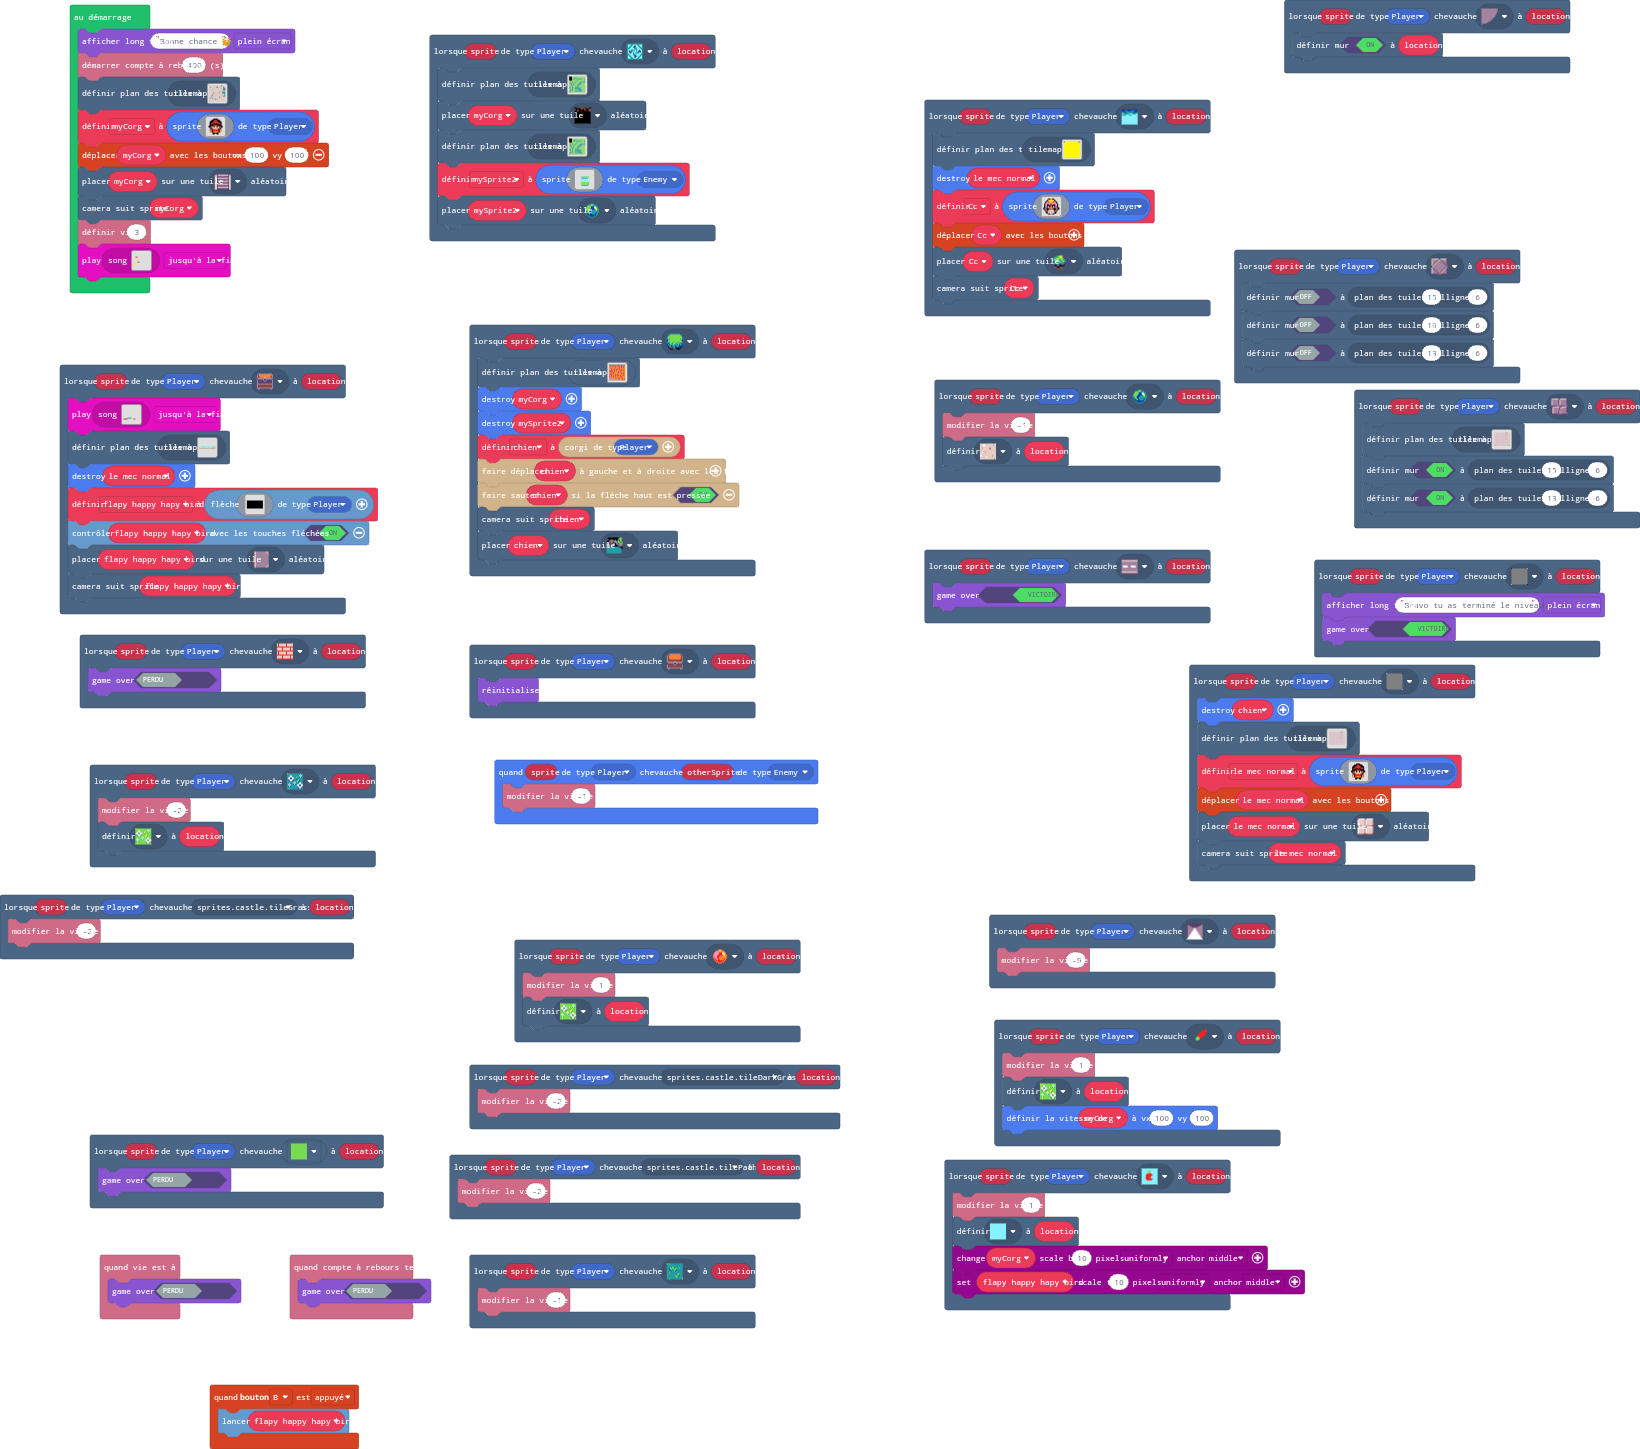
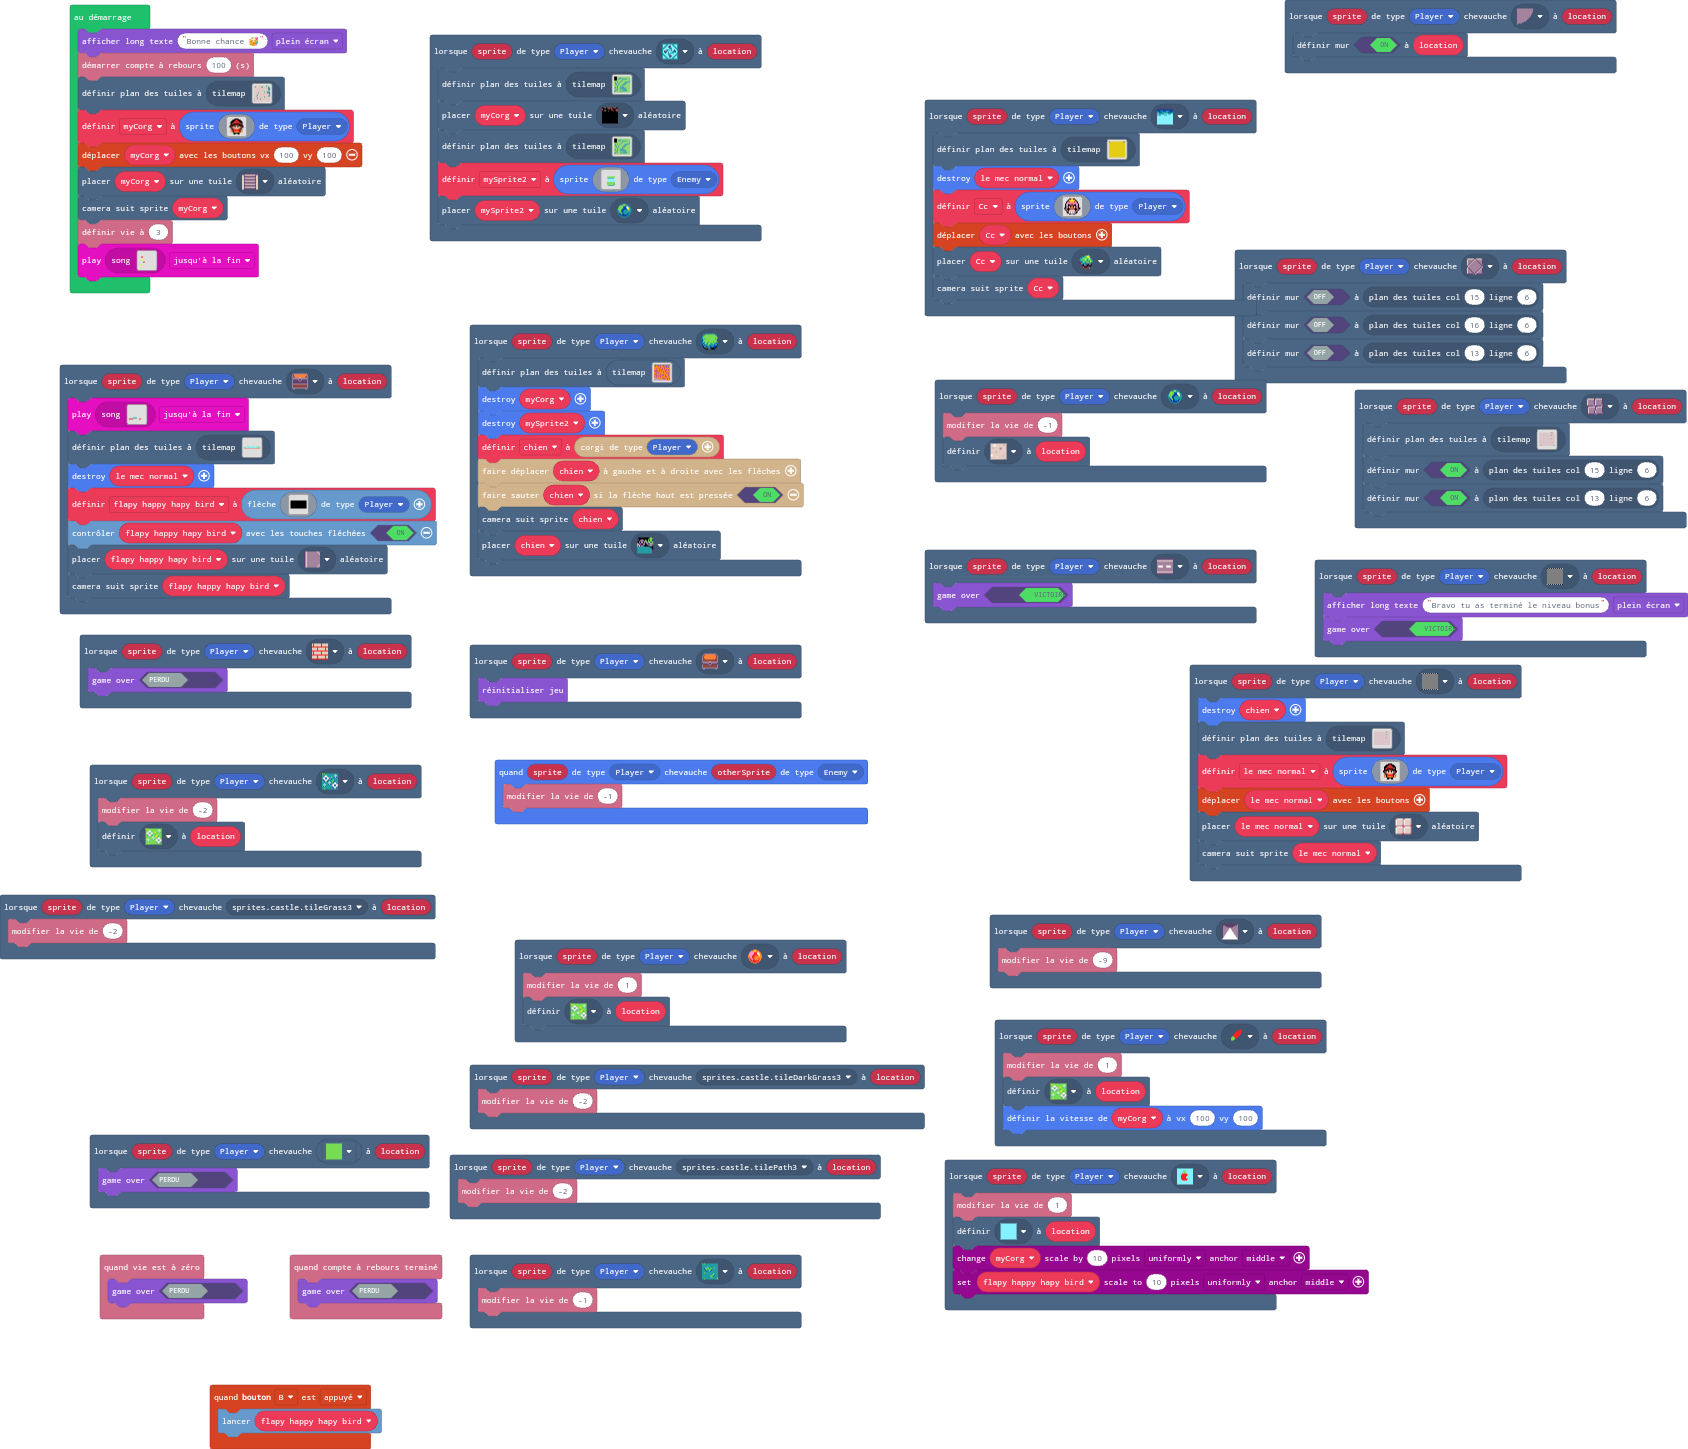
Mise à jour main.blocks, main.ts, tilemap.g.jres, tilemap.g.ts

diff --git a/tilemap.g.ts b/tilemap.g.ts
@@ -26,6 +26,10 @@ namespace myTiles {
     export const tile11 = image.ofBuffer(hex``);
     //% fixedInstance jres blockIdentity=images._tile
     export const tile12 = image.ofBuffer(hex``);
+    //% fixedInstance jres blockIdentity=images._tile
+    export const tile13 = image.ofBuffer(hex``);
+    //% fixedInstance jres blockIdentity=images._tile
+    export const tile14 = image.ofBuffer(hex``);
 
     helpers._registerFactory("tilemap", function(name: string) {
         switch(helpers.stringTrim(name)) {
@@ -284,44 +288,6 @@ namespace myTiles {
 . . . . . . . . . . . . . . . . 
 . . . . . . . . . . . . . . . . 
 `, [myTiles.transparency16], TileScale.Sixteen);
-            case "nivea5456":
[1 lines of base64/hex data omitted]
-. . . . . 2 . . . . . 2 . . . . 
-. . . . . 2 . . . . . 2 . . . . 
-. . . . . 2 . . . 2 . 2 . 2 . . 
-. . 2 . 2 2 . . . 2 . . . 2 . . 
-. . 2 . . . . . . 2 . . 2 2 . . 
-. . 2 2 2 2 2 2 2 2 . . 2 2 2 2 
-. . 2 . . . 2 . . . . . 2 . . . 
-. . 2 . . . 2 . . . . . 2 . . . 
-. . 2 . . . 2 . 2 2 . 2 2 . . . 
-. . . . . . 2 . 2 . . . 2 . . . 
-. . . . . . 2 . 2 . . . 2 . . . 
-. . 2 2 2 2 2 2 2 . . . 2 . . . 
-. . 2 . . . . . 2 . . . 2 . . . 
-. . 2 . . . . . 2 . . . 2 2 2 . 
-. . 2 . 2 2 2 . 2 . . . . . . . 
-. . 2 . 2 . . . . . . . . . . . 
-`, [myTiles.transparency16,sprites.castle.tilePath5,sprites.dungeon.stairSouth,sprites.dungeon.floorLight0,sprites.dungeon.chestClosed,sprites.dungeon.collectibleInsignia,sprites.dungeon.collectibleBlueCrystal,myTiles.tile1,sprites.builtin.forestTiles0,sprites.swamp.swampTile19,myTiles.tile2,sprites.dungeon.hazardWater], TileScale.Sixteen);
-            case "niveau16":
-            case "niveau16":return tiles.createTilemap(hex`1000100001020202020202020202020202040303020202020202020202020202020402020204040202020202020202020204020202040202020202020202020202040402020402020202020202020202020204020204020202020202020202020202040202040202020202020202020202020402020404040402020202020202020204040204020204020202020202020202020402020202040202020202020202020204020202020402020202020202020202040202020402020202020202020202020402020204020202020202020202020204020202040202020202020202020202040202020402020202020202020202020402020204040404040404040404040404`, img`
-. . . 2 . . . . . . . . 2 . . . 
-. . . 2 2 2 2 2 . . . . 2 . 2 2 
-2 . . . . . . 2 2 . . . 2 . . . 
-2 . 2 . . . . . 2 . . . 2 2 . . 
-2 . 2 . . . . . 2 2 2 . . . . . 
-2 . 2 2 2 2 . . . . 2 2 . . . . 
-2 . . . . 2 2 2 . . . 2 2 . . . 
-2 . . . . . . 2 . . . . 2 2 2 . 
-2 . 2 . . . . . 2 . . . 2 2 . . 
-. . 2 . . 2 . . 2 . . 2 2 . . . 
-. . 2 . . 2 . 2 2 . . . . . 2 . 
-. . 2 . 2 2 . . 2 2 2 . . 2 . . 
-2 2 . . 2 2 . . . . 2 2 . . . . 
-2 . . . 2 2 2 2 . . . 2 2 2 . . 
-2 . . . . . . 2 2 2 . . . 2 2 . 
-. . . . . . . . . . . . . . . . 
-`, [myTiles.transparency16,sprites.castle.saplingOak,myTiles.tile10,myTiles.tile11,myTiles.tile12], TileScale.Sixteen);
             case "niveau17":
             case "niveau17":return tiles.createTilemap(hex`1000100000000000000000000000000000000000000000000000000000000000000000000000000000000000000000000000000000000000000000000000000000000000000000000000000000000000000000000000000000000000000000000000000000000000000000000000000000000000000000000000000000000000000000000000000000000000000000000000000000000000000000000000000000000000000000000000000000000000000000000000000000000000000000000000000000000000000000000000000000000000000000000000000000000000000000000000000000000000000000000000000000000000000000000000000000000000`, img`
 . . . . . . . . . . . . . . . . 
@@ -436,6 +402,158 @@ namespace myTiles {
 . . . . . . . . . . . . . . . . 
 . . . . . . . . . . . . . . . . 
 `, [myTiles.transparency16], TileScale.Sixteen);
+            case "niveau23":
+            case "niveau23":return tiles.createTilemap(hex`1000100000000000000000000000000000000000000000000000000000000000000000000000000000000000000000000000000000000000000000000000000000000000000000000000000000000000000000000000000000000000000000000000000000000000000000000000000000000000000000000000000000000000000000000000000000000000000000000000000000000000000000000000000000000000000000000000000000000000000000000000000000000000000000000000000000000000000000000000000000000000000000000000000000000000000000000000000000000000000000000000000000000000000000000000000000000000`, img`
+. . . . . . . . . . . . . . . . 
+. . . . . . . . . . . . . . . . 
+. . . . . . . . . . . . . . . . 
+. . . . . . . . . . . . . . . . 
+. . . . . . . . . . . . . . . . 
+. . . . . . . . . . . . . . . . 
+. . . . . . . . . . . . . . . . 
+. . . . . . . . . . . . . . . . 
+. . . . . . . . . . . . . . . . 
+. . . . . . . . . . . . . . . . 
+. . . . . . . . . . . . . . . . 
+. . . . . . . . . . . . . . . . 
+. . . . . . . . . . . . . . . . 
+. . . . . . . . . . . . . . . . 
+. . . . . . . . . . . . . . . . 
+. . . . . . . . . . . . . . . . 
+`, [myTiles.transparency16], TileScale.Sixteen);
+            case "niveau24":
+            case "niveau24":return tiles.createTilemap(hex`1000100000000000000000000000000000000000000000000000000000000000000000000000000000000000000000000000000000000000000000000000000000000000000000000000000000000000000000000000000000000000000000000000000000000000000000000000000000000000000000000000000000000000000000000000000000000000000000000000000000000000000000000000000000000000000000000000000000000000000000000000000000000000000000000000000000000000000000000000000000000000000000000000000000000000000000000000000000000000000000000000000000000000000000000000000000000000`, img`
+. . . . . . . . . . . . . . . . 
+. . . . . . . . . . . . . . . . 
+. . . . . . . . . . . . . . . . 
+. . . . . . . . . . . . . . . . 
+. . . . . . . . . . . . . . . . 
+. . . . . . . . . . . . . . . . 
+. . . . . . . . . . . . . . . . 
+. . . . . . . . . . . . . . . . 
+. . . . . . . . . . . . . . . . 
+. . . . . . . . . . . . . . . . 
+. . . . . . . . . . . . . . . . 
+. . . . . . . . . . . . . . . . 
+. . . . . . . . . . . . . . . . 
+. . . . . . . . . . . . . . . . 
+. . . . . . . . . . . . . . . . 
+. . . . . . . . . . . . . . . . 
+`, [myTiles.transparency16], TileScale.Sixteen);
+            case "niveau25":
+            case "niveau25":return tiles.createTilemap(hex`1000100000000000000000000000000000000000000000000000000000000000000000000000000000000000000000000000000000000000000000000000000000000000000000000000000000000000000000000000000000000000000000000000000000000000000000000000000000000000000000000000000000000000000000000000000000000000000000000000000000000000000000000000000000000000000000000000000000000000000000000000000000000000000000000000000000000000000000000000000000000000000000000000000000000000000000000000000000000000000000000000000000000000000000000000000000000000`, img`
+. . . . . . . . . . . . . . . . 
+. . . . . . . . . . . . . . . . 
+. . . . . . . . . . . . . . . . 
+. . . . . . . . . . . . . . . . 
+. . . . . . . . . . . . . . . . 
+. . . . . . . . . . . . . . . . 
+. . . . . . . . . . . . . . . . 
+. . . . . . . . . . . . . . . . 
+. . . . . . . . . . . . . . . . 
+. . . . . . . . . . . . . . . . 
+. . . . . . . . . . . . . . . . 
+. . . . . . . . . . . . . . . . 
+. . . . . . . . . . . . . . . . 
+. . . . . . . . . . . . . . . . 
+. . . . . . . . . . . . . . . . 
+. . . . . . . . . . . . . . . . 
+`, [myTiles.transparency16], TileScale.Sixteen);
+            case "niveau26":
+            case "niveau26":return tiles.createTilemap(hex`1000100000000000000000000000000000000000000000000000000000000000000000000000000000000000000000000000000000000000000000000000000000000000000000000000000000000000000000000000000000000000000000000000000000000000000000000000000000000000000000000000000000000000000000000000000000000000000000000000000000000000000000000000000000000000000000000000000000000000000000000000000000000000000000000000000000000000000000000000000000000000000000000000000000000000000000000000000000000000000000000000000000000000000000000000000000000000`, img`
+. . . . . . . . . . . . . . . . 
+. . . . . . . . . . . . . . . . 
+. . . . . . . . . . . . . . . . 
+. . . . . . . . . . . . . . . . 
+. . . . . . . . . . . . . . . . 
+. . . . . . . . . . . . . . . . 
+. . . . . . . . . . . . . . . . 
+. . . . . . . . . . . . . . . . 
+. . . . . . . . . . . . . . . . 
+. . . . . . . . . . . . . . . . 
+. . . . . . . . . . . . . . . . 
+. . . . . . . . . . . . . . . . 
+. . . . . . . . . . . . . . . . 
+. . . . . . . . . . . . . . . . 
+. . . . . . . . . . . . . . . . 
+. . . . . . . . . . . . . . . . 
+`, [myTiles.transparency16], TileScale.Sixteen);
+            case "niveau27":
+            case "niveau27":return tiles.createTilemap(hex`1000100000000000000000000000000000000000000000000000000000000000000000000000000000000000000000000000000000000000000000000000000000000000000000000000000000000000000000000000000000000000000000000000000000000000000000000000000000000000000000000000000000000000000000000000000000000000000000000000000000000000000000000000000000000000000000000000000000000000000000000000000000000000000000000000000000000000000000000000000000000000000000000000000000000000000000000000000000000000000000000000000000000000000000000000000000000000`, img`
+. . . . . . . . . . . . . . . . 
+. . . . . . . . . . . . . . . . 
+. . . . . . . . . . . . . . . . 
+. . . . . . . . . . . . . . . . 
+. . . . . . . . . . . . . . . . 
+. . . . . . . . . . . . . . . . 
+. . . . . . . . . . . . . . . . 
+. . . . . . . . . . . . . . . . 
+. . . . . . . . . . . . . . . . 
+. . . . . . . . . . . . . . . . 
+. . . . . . . . . . . . . . . . 
+. . . . . . . . . . . . . . . . 
+. . . . . . . . . . . . . . . . 
+. . . . . . . . . . . . . . . . 
+. . . . . . . . . . . . . . . . 
+. . . . . . . . . . . . . . . . 
+`, [myTiles.transparency16], TileScale.Sixteen);
+            case "niveau28":
+            case "niveau28":return tiles.createTilemap(hex`1000100000000000000000000000000000000000000000000000000000000000000000000000000000000000000000000000000000000000000000000000000000000000000000000000000000000000000000000000000000000000000000000000000000000000000000000000000000000000000000000000000000000000000000000000000000000000000000000000000000000000000000000000000000000000000000000000000000000000000000000000000000000000000000000000000000000000000000000000000000000000000000000000000000000000000000000000000000000000000000000000000000000000000000000000000000000000`, img`
+. . . . . . . . . . . . . . . . 
+. . . . . . . . . . . . . . . . 
+. . . . . . . . . . . . . . . . 
+. . . . . . . . . . . . . . . . 
+. . . . . . . . . . . . . . . . 
+. . . . . . . . . . . . . . . . 
+. . . . . . . . . . . . . . . . 
+. . . . . . . . . . . . . . . . 
+. . . . . . . . . . . . . . . . 
+. . . . . . . . . . . . . . . . 
+. . . . . . . . . . . . . . . . 
+. . . . . . . . . . . . . . . . 
+. . . . . . . . . . . . . . . . 
+. . . . . . . . . . . . . . . . 
+. . . . . . . . . . . . . . . . 
+. . . . . . . . . . . . . . . . 
+`, [myTiles.transparency16], TileScale.Sixteen);
+            case "niveau16":
+            case "niveau16":return tiles.createTilemap(hex`1000100001040303030303030303030304040202030403030303030303030303040403030304030303030303030303030404040303040303030303030303030304040404030403030303030303030303030304040304030303030303030303030303040403040303030303030303030303030404030404030303030303030303030304040303040404030303030303030303040403030304030303030303030303030404030303040303030303030303030304040303030403030303030303030303040403030304030303030303030303030404030303040303030303030303030304040303030403030303030303030303040403030304040404040404040404040404`, img`
+. . . 2 . . . . . . . . 2 . . . 
+. . . 2 2 2 2 2 . . . . 2 . 2 2 
+2 . . . . . . 2 2 . . . 2 . . . 
+2 . 2 . . . . . 2 . . . 2 2 . . 
+2 . 2 . . . . . 2 2 2 . . . . . 
+2 . 2 2 2 2 . . . . 2 2 . . . . 
+2 . . . . 2 2 2 . . . 2 2 . . . 
+2 . . . . . . 2 . . . . 2 2 2 . 
+2 . 2 . . . . . 2 . . . 2 2 . . 
+. . 2 . . 2 . . 2 . . 2 2 . . . 
+. . 2 . . 2 . 2 2 . . . . . 2 . 
+. . 2 . 2 2 . . 2 2 2 . . 2 . . 
+2 2 . . 2 2 . . . . 2 2 . . . . 
+2 . . . 2 2 2 2 . . . 2 2 2 . . 
+2 . . . . . . 2 2 2 . . . 2 2 . 
+. . . . . . . . . . . . . . . . 
+`, [myTiles.transparency16,sprites.castle.saplingOak,myTiles.tile11,myTiles.tile13,myTiles.tile14], TileScale.Sixteen);
+            case "nivea5456":
[1 lines of base64/hex data omitted]
+. . . . . 2 . . . . . 2 . . . . 
+. . . . . 2 . . . . . 2 . . . . 
+. . . . . 2 . . . 2 . 2 . 2 . . 
+. . 2 . 2 2 . . . 2 . . . 2 . . 
+. . 2 . . . . . . 2 . . 2 2 . . 
+. . 2 2 2 2 2 2 2 2 . . 2 2 2 2 
+. . 2 . . . 2 . . . . . 2 . . . 
+. . 2 . . . 2 . . . . . 2 . . . 
+. . 2 . . . 2 . 2 2 . 2 2 . . . 
+. . . . . . 2 . 2 . . . 2 . . . 
+. . . . . . 2 . 2 . . . 2 . . . 
+. . 2 2 2 2 2 2 2 . . . 2 . . . 
+. . 2 . . . . . 2 . . . 2 . . . 
+. . 2 . . . . . 2 . . . 2 2 2 . 
+. . 2 . 2 2 2 . 2 . . . . . . . 
+. . 2 . 2 . . . . . . . . . . . 
+`, [myTiles.transparency16,sprites.castle.tilePath5,sprites.dungeon.stairSouth,sprites.dungeon.floorLight0,sprites.dungeon.chestClosed,sprites.dungeon.collectibleInsignia,sprites.dungeon.collectibleBlueCrystal,myTiles.tile1,sprites.builtin.forestTiles0,sprites.swamp.swampTile19,sprites.dungeon.hazardWater], TileScale.Sixteen);
         }
         return null;
     })
@@ -467,6 +585,10 @@ namespace myTiles {
             case "tile11":return tile11;
             case "myTile10":
             case "tile12":return tile12;
+            case "myTile11":
+            case "tile13":return tile13;
+            case "myTile12":
+            case "tile14":return tile14;
         }
         return null;
     })

diff --git a/main.ts b/main.ts
@@ -183,7 +183,7 @@ let le_mec_normal: Sprite = null
 let chien: Corgio = null
 let myCorg: Sprite = null
 game.showLongText("Bonne chance 🥳", DialogLayout.Full)
-info.startCountdown(400)
+info.startCountdown(100)
 tiles.setCurrentTilemap(tilemap`nivea5456`)
 myCorg = sprites.create(img`
     . . . . . . f f f f . . . . . . 
